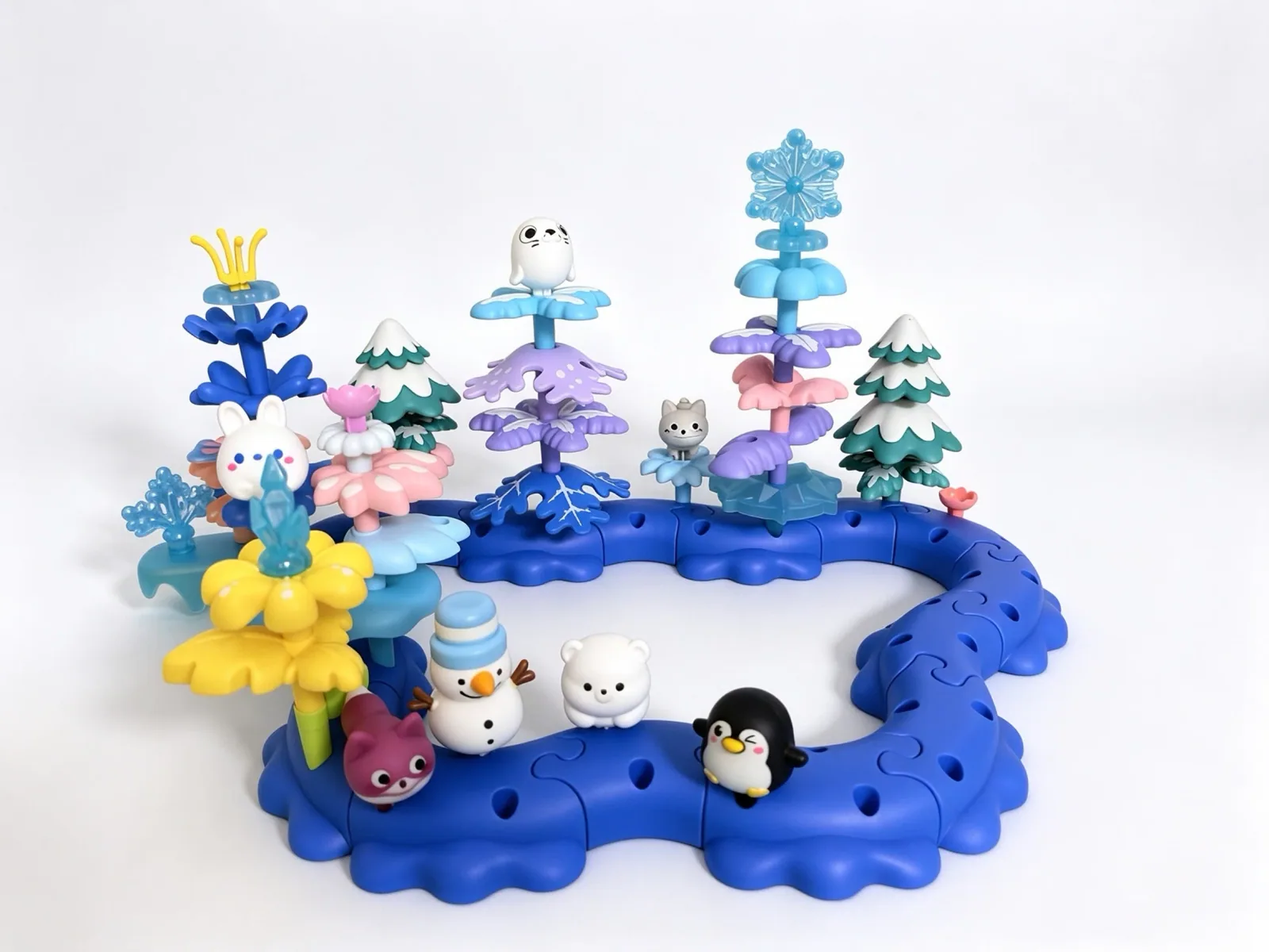
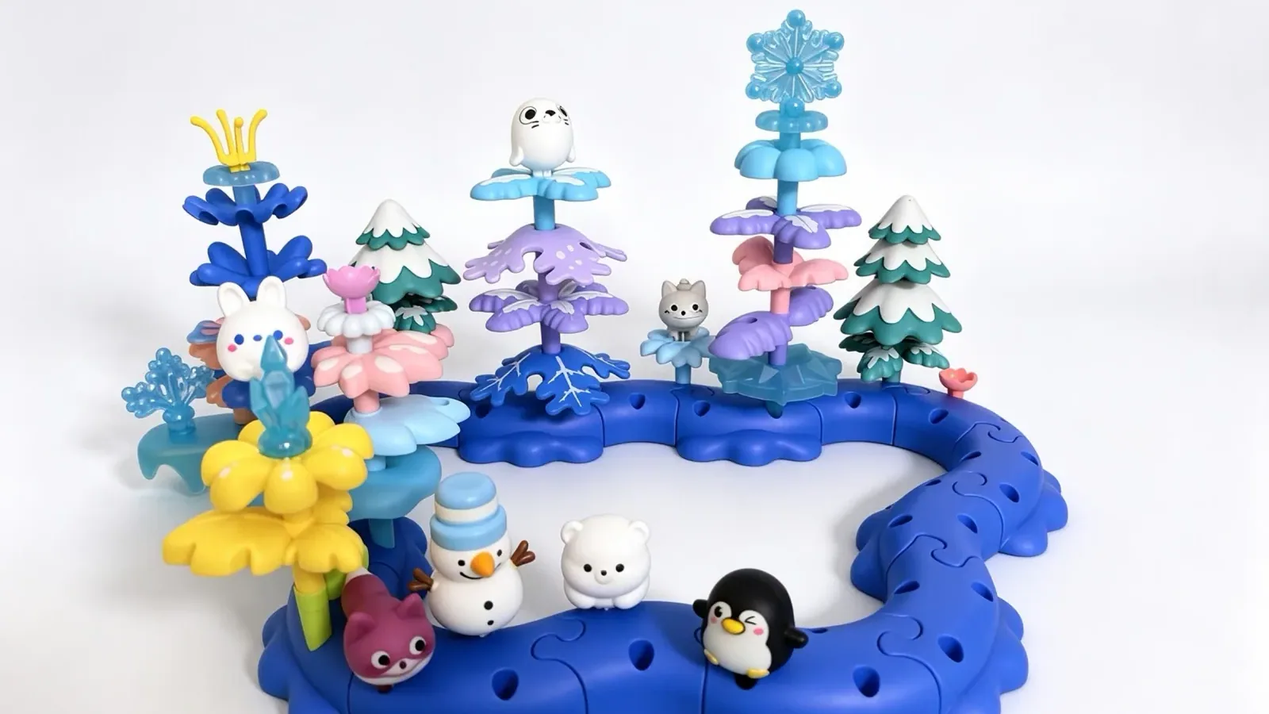
style(博客): APEC 礼物指南封面改为 16:9
- 封面重新裁切为 1600×900 WebP，文章首图与博客卡片比例更统一
- 同步更新 page.json 图片尺寸、七语言文章页与 OG 图片尺寸

diff --git a/ja/article-apec-shenzhen-gifts-2026.html b/ja/article-apec-shenzhen-gifts-2026.html
@@ -19,7 +19,7 @@
     <meta name="twitter:description" content="APEC 2026 の深センで、子どもへのギフトをお探しですか。SUPUZZ の創造的な組み立て玩具、サンゴ礁・恐竜ジャングル・レインボーワッフルのセットを 2～8歳向けにご紹介します。">
     <meta property="og:image" content="https://supuzz.com/product-images/journal/article-apec-shenzhen-gifts-2026-cover.webp">
     <meta property="og:image:width" content="1600">
-    <meta property="og:image:height" content="1200">
+    <meta property="og:image:height" content="900">
     <meta property="og:image:alt" content="雪をかぶった木、雪だるま、ペンギン、シロクマ、アザラシが並ぶ SUPUZZ 組み立て玩具の冬景色">
     <meta name="twitter:image" content="https://supuzz.com/product-images/journal/article-apec-shenzhen-gifts-2026-cover.webp">
     <meta name="twitter:image:alt" content="雪をかぶった木、雪だるま、ペンギン、シロクマ、アザラシが並ぶ SUPUZZ 組み立て玩具の冬景色">
@@ -30,7 +30,7 @@
     <link rel="stylesheet" href="../css/style.css">
     <link rel="stylesheet" href="/css/article-guide.css">
     <link rel="icon" href="../images/favicon.ico">
-    <script type="application/ld+json">{"@context":"https://schema.org","@type":"BlogPosting","headline":"APEC Shenzhen 2026 子どもへのギフト提案","description":"APEC 2026 の深センで、子どもへのギフトをお探しですか。SUPUZZ の創造的な組み立て玩具、サンゴ礁・恐竜ジャングル・レインボーワッフルのセットを 2～8歳向けにご紹介します。","inLanguage":"ja-JP","datePublished":"2026-11-18T10:00:00+08:00","dateModified":"2026-11-18T10:00:00+08:00","author":{"@type":"Organization","name":"SUPUZZ 編集部","url":"https://supuzz.com/ja/about.html"},"publisher":{"@type":"Organization","name":"SUPUZZ","url":"https://supuzz.com/"},"mainEntityOfPage":{"@type":"WebPage","@id":"https://supuzz.com/ja/article-apec-shenzhen-gifts-2026.html"},"image":{"@type":"ImageObject","url":"https://supuzz.com/product-images/journal/article-apec-shenzhen-gifts-2026-cover.webp","width":1600,"height":1200}}</script>
+    <script type="application/ld+json">{"@context":"https://schema.org","@type":"BlogPosting","headline":"APEC Shenzhen 2026 子どもへのギフト提案","description":"APEC 2026 の深センで、子どもへのギフトをお探しですか。SUPUZZ の創造的な組み立て玩具、サンゴ礁・恐竜ジャングル・レインボーワッフルのセットを 2～8歳向けにご紹介します。","inLanguage":"ja-JP","datePublished":"2026-11-18T10:00:00+08:00","dateModified":"2026-11-18T10:00:00+08:00","author":{"@type":"Organization","name":"SUPUZZ 編集部","url":"https://supuzz.com/ja/about.html"},"publisher":{"@type":"Organization","name":"SUPUZZ","url":"https://supuzz.com/"},"mainEntityOfPage":{"@type":"WebPage","@id":"https://supuzz.com/ja/article-apec-shenzhen-gifts-2026.html"},"image":{"@type":"ImageObject","url":"https://supuzz.com/product-images/journal/article-apec-shenzhen-gifts-2026-cover.webp","width":1600,"height":900}}</script>
     <script type="application/ld+json">{"@context":"https://schema.org","@type":"BreadcrumbList","itemListElement":[{"@type":"ListItem","position":1,"name":"ホーム","item":"https://supuzz.com/ja/index.html"},{"@type":"ListItem","position":2,"name":"ブログ","item":"https://supuzz.com/ja/blog.html"},{"@type":"ListItem","position":3,"name":"APEC Shenzhen 2026 子どもへのギフト提案","item":"https://supuzz.com/ja/article-apec-shenzhen-gifts-2026.html"}]}</script>
 
 
@@ -57,7 +57,7 @@
             <h1>APEC Shenzhen 2026 子どもへのギフト提案</h1>
             <p class="meta">SUPUZZ 編集部 · 公開日：<time datetime="2026-11-18">2026年11月18日</time></p>
         </div>
-        <figure><img class="featured-img" src="/product-images/journal/article-apec-shenzhen-gifts-2026-cover.webp" width="1600" height="1200" alt="雪をかぶった木、雪だるま、ペンギン、シロクマ、アザラシが並ぶ SUPUZZ 組み立て玩具の冬景色" loading="eager" decoding="async" fetchpriority="high"><figcaption>写真は、雪の木々、雪だるま、ペンギン、シロクマ、アザラシを組み立て玩具で表現した冬のシーン。SUPUZZ は、答えを決めずに手を動かして遊べる玩具をつくっています。</figcaption></figure>
+        <figure><img class="featured-img" src="/product-images/journal/article-apec-shenzhen-gifts-2026-cover.webp" width="1600" height="900" alt="雪をかぶった木、雪だるま、ペンギン、シロクマ、アザラシが並ぶ SUPUZZ 組み立て玩具の冬景色" loading="eager" decoding="async" fetchpriority="high"><figcaption>写真は、雪の木々、雪だるま、ペンギン、シロクマ、アザラシを組み立て玩具で表現した冬のシーン。SUPUZZ は、答えを決めずに手を動かして遊べる玩具をつくっています。</figcaption></figure>
         <div class="content">
             <p class="intro">深センで、子どもの創造性をはぐくむギフトをお探しですか。SUPUZZ は深センを拠点に、カラフルな組み立て玩具と想像力豊かな遊びの体験をつくるブランドです。好奇心と創造力、そして「見つける」喜びを大切に、3～8歳の子どもが自分だけの小さな世界を探検し、組み立て、つくり出せる玩具をお届けしています。知育玩具をお探しの方も、ご家族へのギフトを探している方も、APEC 2026 で深センを訪れる際の記念のギフトをお探しの方も、創造的な組み立て玩具のコレクションをぜひご覧ください。</p>
             <section aria-labelledby="section-why">

diff --git a/fr/article-apec-shenzhen-gifts-2026.html b/fr/article-apec-shenzhen-gifts-2026.html
@@ -19,7 +19,7 @@
     <meta name="twitter:description" content="Vous cherchez des cadeaux pour enfants à Shenzhen pendant APEC Shenzhen 2026 ? Découvrez les jouets de construction créatifs SUPUZZ pour les 2–8 ans : récif corallien, jungle des dinosaures et blocs gaufrés arc-en-ciel.">
     <meta property="og:image" content="https://supuzz.com/product-images/journal/article-apec-shenzhen-gifts-2026-cover.webp">
     <meta property="og:image:width" content="1600">
-    <meta property="og:image:height" content="1200">
+    <meta property="og:image:height" content="900">
     <meta property="og:image:alt" content="Scène d’hiver en jouets de construction SUPUZZ, avec des arbres enneigés, un bonhomme de neige, un pingouin, un ours polaire et un phoque">
     <meta name="twitter:image" content="https://supuzz.com/product-images/journal/article-apec-shenzhen-gifts-2026-cover.webp">
     <meta name="twitter:image:alt" content="Scène d’hiver en jouets de construction SUPUZZ, avec des arbres enneigés, un bonhomme de neige, un pingouin, un ours polaire et un phoque">
@@ -30,7 +30,7 @@
     <link rel="stylesheet" href="../css/style.css">
     <link rel="stylesheet" href="/css/article-guide.css">
     <link rel="icon" href="../images/favicon.ico">
-    <script type="application/ld+json">{"@context":"https://schema.org","@type":"BlogPosting","headline":"Idées de cadeaux pour enfants – APEC Shenzhen 2026","description":"Vous cherchez des cadeaux pour enfants à Shenzhen pendant APEC Shenzhen 2026 ? Découvrez les jouets de construction créatifs SUPUZZ pour les 2–8 ans : récif corallien, jungle des dinosaures et blocs gaufrés arc-en-ciel.","inLanguage":"fr","datePublished":"2026-11-18T10:00:00+08:00","dateModified":"2026-11-18T10:00:00+08:00","author":{"@type":"Organization","name":"Équipe éditoriale SUPUZZ","url":"https://supuzz.com/fr/about.html"},"publisher":{"@type":"Organization","name":"SUPUZZ","url":"https://supuzz.com/"},"mainEntityOfPage":{"@type":"WebPage","@id":"https://supuzz.com/fr/article-apec-shenzhen-gifts-2026.html"},"image":{"@type":"ImageObject","url":"https://supuzz.com/product-images/journal/article-apec-shenzhen-gifts-2026-cover.webp","width":1600,"height":1200}}</script>
+    <script type="application/ld+json">{"@context":"https://schema.org","@type":"BlogPosting","headline":"Idées de cadeaux pour enfants – APEC Shenzhen 2026","description":"Vous cherchez des cadeaux pour enfants à Shenzhen pendant APEC Shenzhen 2026 ? Découvrez les jouets de construction créatifs SUPUZZ pour les 2–8 ans : récif corallien, jungle des dinosaures et blocs gaufrés arc-en-ciel.","inLanguage":"fr","datePublished":"2026-11-18T10:00:00+08:00","dateModified":"2026-11-18T10:00:00+08:00","author":{"@type":"Organization","name":"Équipe éditoriale SUPUZZ","url":"https://supuzz.com/fr/about.html"},"publisher":{"@type":"Organization","name":"SUPUZZ","url":"https://supuzz.com/"},"mainEntityOfPage":{"@type":"WebPage","@id":"https://supuzz.com/fr/article-apec-shenzhen-gifts-2026.html"},"image":{"@type":"ImageObject","url":"https://supuzz.com/product-images/journal/article-apec-shenzhen-gifts-2026-cover.webp","width":1600,"height":900}}</script>
     <script type="application/ld+json">{"@context":"https://schema.org","@type":"BreadcrumbList","itemListElement":[{"@type":"ListItem","position":1,"name":"Accueil","item":"https://supuzz.com/fr/index.html"},{"@type":"ListItem","position":2,"name":"Blog","item":"https://supuzz.com/fr/blog.html"},{"@type":"ListItem","position":3,"name":"Idées de cadeaux pour enfants – APEC Shenzhen 2026","item":"https://supuzz.com/fr/article-apec-shenzhen-gifts-2026.html"}]}</script>
 
 
@@ -57,7 +57,7 @@
             <h1>Idées de cadeaux pour enfants – APEC Shenzhen 2026</h1>
             <p class="meta">Équipe éditoriale SUPUZZ · Publié le <time datetime="2026-11-18">18 novembre 2026</time></p>
         </div>
-        <figure><img class="featured-img" src="/product-images/journal/article-apec-shenzhen-gifts-2026-cover.webp" width="1600" height="1200" alt="Scène d’hiver en jouets de construction SUPUZZ, avec des arbres enneigés, un bonhomme de neige, un pingouin, un ours polaire et un phoque" loading="eager" decoding="async" fetchpriority="high"><figcaption>Une scène d’hiver construite en blocs SUPUZZ : arbres enneigés, bonhomme de neige, pingouin, ours polaire et phoque, pour un jeu libre et créatif.</figcaption></figure>
+        <figure><img class="featured-img" src="/product-images/journal/article-apec-shenzhen-gifts-2026-cover.webp" width="1600" height="900" alt="Scène d’hiver en jouets de construction SUPUZZ, avec des arbres enneigés, un bonhomme de neige, un pingouin, un ours polaire et un phoque" loading="eager" decoding="async" fetchpriority="high"><figcaption>Une scène d’hiver construite en blocs SUPUZZ : arbres enneigés, bonhomme de neige, pingouin, ours polaire et phoque, pour un jeu libre et créatif.</figcaption></figure>
         <div class="content">
             <p class="intro">Vous cherchez des cadeaux créatifs pour enfants à Shenzhen ? Découvrez SUPUZZ, une marque basée à Shenzhen qui conçoit des jouets de construction colorés et des expériences de jeu imaginatives pour les enfants. Inspirés par la curiosité, la créativité et le plaisir de la découverte, nos jouets de construction offrent aux enfants de 3–8 ans un moyen d’explorer, de construire et de créer leurs propres petits mondes. Que vous cherchiez un jouet éducatif, un cadeau pour toute la famille ou un cadeau enfant mémorable pendant votre séjour à Shenzhen pour APEC Shenzhen 2026, parcourez notre collection de jouets de construction créatifs.</p>
             <section aria-labelledby="section-why">

diff --git a/pt/article-apec-shenzhen-gifts-2026.html b/pt/article-apec-shenzhen-gifts-2026.html
@@ -19,7 +19,7 @@
     <meta name="twitter:description" content="Procurando presentes infantis em Shenzhen durante a APEC 2026? Conheça os brinquedos de montar criativos da SUPUZZ para 2–8 anos: recife de coral, selva com dinossauros e blocos waffle arco-íris.">
     <meta property="og:image" content="https://supuzz.com/product-images/journal/article-apec-shenzhen-gifts-2026-cover.webp">
     <meta property="og:image:width" content="1600">
-    <meta property="og:image:height" content="1200">
+    <meta property="og:image:height" content="900">
     <meta property="og:image:alt" content="Cena de inverno montada com brinquedos SUPUZZ, com árvores cobertas de neve, um boneco de neve, um pinguim, um urso-polar e uma foca">
     <meta name="twitter:image" content="https://supuzz.com/product-images/journal/article-apec-shenzhen-gifts-2026-cover.webp">
     <meta name="twitter:image:alt" content="Cena de inverno montada com brinquedos SUPUZZ, com árvores cobertas de neve, um boneco de neve, um pinguim, um urso-polar e uma foca">
@@ -30,7 +30,7 @@
     <link rel="stylesheet" href="../css/style.css">
     <link rel="stylesheet" href="/css/article-guide.css">
     <link rel="icon" href="../images/favicon.ico">
-    <script type="application/ld+json">{"@context":"https://schema.org","@type":"BlogPosting","headline":"Ideias de presentes infantis para a APEC Shenzhen 2026","description":"Procurando presentes infantis em Shenzhen durante a APEC 2026? Conheça os brinquedos de montar criativos da SUPUZZ para 2–8 anos: recife de coral, selva com dinossauros e blocos waffle arco-íris.","inLanguage":"pt","datePublished":"2026-11-18T10:00:00+08:00","dateModified":"2026-11-18T10:00:00+08:00","author":{"@type":"Organization","name":"Equipe editorial da SUPUZZ","url":"https://supuzz.com/pt/about.html"},"publisher":{"@type":"Organization","name":"SUPUZZ","url":"https://supuzz.com/"},"mainEntityOfPage":{"@type":"WebPage","@id":"https://supuzz.com/pt/article-apec-shenzhen-gifts-2026.html"},"image":{"@type":"ImageObject","url":"https://supuzz.com/product-images/journal/article-apec-shenzhen-gifts-2026-cover.webp","width":1600,"height":1200}}</script>
+    <script type="application/ld+json">{"@context":"https://schema.org","@type":"BlogPosting","headline":"Ideias de presentes infantis para a APEC Shenzhen 2026","description":"Procurando presentes infantis em Shenzhen durante a APEC 2026? Conheça os brinquedos de montar criativos da SUPUZZ para 2–8 anos: recife de coral, selva com dinossauros e blocos waffle arco-íris.","inLanguage":"pt","datePublished":"2026-11-18T10:00:00+08:00","dateModified":"2026-11-18T10:00:00+08:00","author":{"@type":"Organization","name":"Equipe editorial da SUPUZZ","url":"https://supuzz.com/pt/about.html"},"publisher":{"@type":"Organization","name":"SUPUZZ","url":"https://supuzz.com/"},"mainEntityOfPage":{"@type":"WebPage","@id":"https://supuzz.com/pt/article-apec-shenzhen-gifts-2026.html"},"image":{"@type":"ImageObject","url":"https://supuzz.com/product-images/journal/article-apec-shenzhen-gifts-2026-cover.webp","width":1600,"height":900}}</script>
     <script type="application/ld+json">{"@context":"https://schema.org","@type":"BreadcrumbList","itemListElement":[{"@type":"ListItem","position":1,"name":"Início","item":"https://supuzz.com/pt/index.html"},{"@type":"ListItem","position":2,"name":"Blog","item":"https://supuzz.com/pt/blog.html"},{"@type":"ListItem","position":3,"name":"Ideias de presentes infantis para a APEC Shenzhen 2026","item":"https://supuzz.com/pt/article-apec-shenzhen-gifts-2026.html"}]}</script>
 
 
@@ -57,7 +57,7 @@
             <h1>Ideias de presentes infantis para a APEC Shenzhen 2026</h1>
             <p class="meta">Equipe editorial da SUPUZZ · Publicado em <time datetime="2026-11-18">18 de novembro de 2026</time></p>
         </div>
-        <figure><img class="featured-img" src="/product-images/journal/article-apec-shenzhen-gifts-2026-cover.webp" width="1600" height="1200" alt="Cena de inverno montada com brinquedos SUPUZZ, com árvores cobertas de neve, um boneco de neve, um pinguim, um urso-polar e uma foca" loading="eager" decoding="async" fetchpriority="high"><figcaption>Uma cena de inverno montada com blocos SUPUZZ, com árvores cobertas de neve, boneco de neve, pinguim, urso-polar e foca em volta de uma construção colorida.</figcaption></figure>
+        <figure><img class="featured-img" src="/product-images/journal/article-apec-shenzhen-gifts-2026-cover.webp" width="1600" height="900" alt="Cena de inverno montada com brinquedos SUPUZZ, com árvores cobertas de neve, um boneco de neve, um pinguim, um urso-polar e uma foca" loading="eager" decoding="async" fetchpriority="high"><figcaption>Uma cena de inverno montada com blocos SUPUZZ, com árvores cobertas de neve, boneco de neve, pinguim, urso-polar e foca em volta de uma construção colorida.</figcaption></figure>
         <div class="content">
             <p class="intro">Procurando presentes infantis criativos em Shenzhen? Conheça a SUPUZZ, marca de Shenzhen que cria brinquedos de montar coloridos e experiências de brincadeira cheias de imaginação para crianças. Inspirados pela curiosidade, pela criatividade e pela alegria de descobrir, nossos brinquedos de montar dão às crianças de 3–8 anos um jeito de explorar, construir e criar seus próprios mundinhos. Se você procura um brinquedo educativo, um presente para a família ou uma lembrança marcante para crianças durante a passagem por Shenzhen na APEC 2026, explore nossa coleção de brinquedos de montar criativos.</p>
             <section aria-labelledby="section-why">

diff --git a/es/article-apec-shenzhen-gifts-2026.html b/es/article-apec-shenzhen-gifts-2026.html
@@ -19,7 +19,7 @@
     <meta name="twitter:description" content="¿Buscas regalos para niños en Shenzhen durante APEC 2026? Descubre SUPUZZ, juguetes de construcción creativa para niños de 2–8 años: arrecife de coral, jungla de dinosaurios y bloques gofre arcoíris.">
     <meta property="og:image" content="https://supuzz.com/product-images/journal/article-apec-shenzhen-gifts-2026-cover.webp">
     <meta property="og:image:width" content="1600">
-    <meta property="og:image:height" content="1200">
+    <meta property="og:image:height" content="900">
     <meta property="og:image:alt" content="Escena invernal de juguete de construcción SUPUZZ con árboles nevados, un muñeco de nieve, un pingüino, un oso polar y una foca">
     <meta name="twitter:image" content="https://supuzz.com/product-images/journal/article-apec-shenzhen-gifts-2026-cover.webp">
     <meta name="twitter:image:alt" content="Escena invernal de juguete de construcción SUPUZZ con árboles nevados, un muñeco de nieve, un pingüino, un oso polar y una foca">
@@ -30,7 +30,7 @@
     <link rel="stylesheet" href="../css/style.css">
     <link rel="stylesheet" href="/css/article-guide.css">
     <link rel="icon" href="../images/favicon.ico">
-    <script type="application/ld+json">{"@context":"https://schema.org","@type":"BlogPosting","headline":"Ideas de regalos para niños para APEC Shenzhen 2026","description":"¿Buscas regalos para niños en Shenzhen durante APEC 2026? Descubre SUPUZZ, juguetes de construcción creativa para niños de 2–8 años: arrecife de coral, jungla de dinosaurios y bloques gofre arcoíris.","inLanguage":"es-ES","datePublished":"2026-11-18T10:00:00+08:00","dateModified":"2026-11-18T10:00:00+08:00","author":{"@type":"Organization","name":"Equipo editorial de SUPUZZ","url":"https://supuzz.com/es/about.html"},"publisher":{"@type":"Organization","name":"SUPUZZ","url":"https://supuzz.com/"},"mainEntityOfPage":{"@type":"WebPage","@id":"https://supuzz.com/es/article-apec-shenzhen-gifts-2026.html"},"image":{"@type":"ImageObject","url":"https://supuzz.com/product-images/journal/article-apec-shenzhen-gifts-2026-cover.webp","width":1600,"height":1200}}</script>
+    <script type="application/ld+json">{"@context":"https://schema.org","@type":"BlogPosting","headline":"Ideas de regalos para niños para APEC Shenzhen 2026","description":"¿Buscas regalos para niños en Shenzhen durante APEC 2026? Descubre SUPUZZ, juguetes de construcción creativa para niños de 2–8 años: arrecife de coral, jungla de dinosaurios y bloques gofre arcoíris.","inLanguage":"es-ES","datePublished":"2026-11-18T10:00:00+08:00","dateModified":"2026-11-18T10:00:00+08:00","author":{"@type":"Organization","name":"Equipo editorial de SUPUZZ","url":"https://supuzz.com/es/about.html"},"publisher":{"@type":"Organization","name":"SUPUZZ","url":"https://supuzz.com/"},"mainEntityOfPage":{"@type":"WebPage","@id":"https://supuzz.com/es/article-apec-shenzhen-gifts-2026.html"},"image":{"@type":"ImageObject","url":"https://supuzz.com/product-images/journal/article-apec-shenzhen-gifts-2026-cover.webp","width":1600,"height":900}}</script>
     <script type="application/ld+json">{"@context":"https://schema.org","@type":"BreadcrumbList","itemListElement":[{"@type":"ListItem","position":1,"name":"Inicio","item":"https://supuzz.com/es/index.html"},{"@type":"ListItem","position":2,"name":"Blog","item":"https://supuzz.com/es/blog.html"},{"@type":"ListItem","position":3,"name":"Ideas de regalos para niños para APEC Shenzhen 2026","item":"https://supuzz.com/es/article-apec-shenzhen-gifts-2026.html"}]}</script>
 
 
@@ -57,7 +57,7 @@
             <h1>Ideas de regalos para niños para APEC Shenzhen 2026</h1>
             <p class="meta">Equipo editorial de SUPUZZ · Publicado el <time datetime="2026-11-18">18 de noviembre de 2026</time></p>
         </div>
-        <figure><img class="featured-img" src="/product-images/journal/article-apec-shenzhen-gifts-2026-cover.webp" width="1600" height="1200" alt="Escena invernal de juguete de construcción SUPUZZ con árboles nevados, un muñeco de nieve, un pingüino, un oso polar y una foca" loading="eager" decoding="async" fetchpriority="high"><figcaption>Una escena invernal de juguetes de construcción SUPUZZ: árboles cubiertos de nieve, un muñeco de nieve, un pingüino, un oso polar y una foca.</figcaption></figure>
+        <figure><img class="featured-img" src="/product-images/journal/article-apec-shenzhen-gifts-2026-cover.webp" width="1600" height="900" alt="Escena invernal de juguete de construcción SUPUZZ con árboles nevados, un muñeco de nieve, un pingüino, un oso polar y una foca" loading="eager" decoding="async" fetchpriority="high"><figcaption>Una escena invernal de juguetes de construcción SUPUZZ: árboles cubiertos de nieve, un muñeco de nieve, un pingüino, un oso polar y una foca.</figcaption></figure>
         <div class="content">
             <p class="intro">¿Buscas regalos creativos para niños en Shenzhen? Descubre SUPUZZ, una marca de Shenzhen que crea juguetes de construcción coloridos y experiencias de juego imaginativas para niños. Inspirados por la curiosidad, la creatividad y la alegría de descubrir, nuestros juguetes de construcción ofrecen a los niños de 3–8 años una forma de explorar, construir y crear sus propios mundos. Si buscas un juguete educativo, un regalo para la familia o un regalo para niños que se recuerde, mientras visitas Shenzhen por APEC 2026, explora nuestra colección de juguetes de construcción creativos.</p>
             <section aria-labelledby="section-why">

diff --git a/de/article-apec-shenzhen-gifts-2026.html b/de/article-apec-shenzhen-gifts-2026.html
@@ -19,7 +19,7 @@
     <meta name="twitter:description" content="Sie suchen Geschenke für Kinder in Shenzhen während der APEC 2026? Entdecken Sie die kreativen Bausteine von SUPUZZ für 2–8 Jahre: Korallenriff, Dschungel-Dinosaurier und Regenbogen-Waffelbausteine.">
     <meta property="og:image" content="https://supuzz.com/product-images/journal/article-apec-shenzhen-gifts-2026-cover.webp">
     <meta property="og:image:width" content="1600">
-    <meta property="og:image:height" content="1200">
+    <meta property="og:image:height" content="900">
     <meta property="og:image:alt" content="SUPUZZ Baustein-Winterszene mit schneebedeckten Bäumen, einem Schneemann, einem Pinguin, einem Eisbären und einem Seehund">
     <meta name="twitter:image" content="https://supuzz.com/product-images/journal/article-apec-shenzhen-gifts-2026-cover.webp">
     <meta name="twitter:image:alt" content="SUPUZZ Baustein-Winterszene mit schneebedeckten Bäumen, einem Schneemann, einem Pinguin, einem Eisbären und einem Seehund">
@@ -30,7 +30,7 @@
     <link rel="stylesheet" href="../css/style.css">
     <link rel="stylesheet" href="/css/article-guide.css">
     <link rel="icon" href="../images/favicon.ico">
-    <script type="application/ld+json">{"@context":"https://schema.org","@type":"BlogPosting","headline":"Geschenkideen für Kinder zur APEC Shenzhen 2026","description":"Sie suchen Geschenke für Kinder in Shenzhen während der APEC 2026? Entdecken Sie die kreativen Bausteine von SUPUZZ für 2–8 Jahre: Korallenriff, Dschungel-Dinosaurier und Regenbogen-Waffelbausteine.","inLanguage":"de","datePublished":"2026-11-18T10:00:00+08:00","dateModified":"2026-11-18T10:00:00+08:00","author":{"@type":"Organization","name":"SUPUZZ-Redaktion","url":"https://supuzz.com/de/about.html"},"publisher":{"@type":"Organization","name":"SUPUZZ","url":"https://supuzz.com/"},"mainEntityOfPage":{"@type":"WebPage","@id":"https://supuzz.com/de/article-apec-shenzhen-gifts-2026.html"},"image":{"@type":"ImageObject","url":"https://supuzz.com/product-images/journal/article-apec-shenzhen-gifts-2026-cover.webp","width":1600,"height":1200}}</script>
+    <script type="application/ld+json">{"@context":"https://schema.org","@type":"BlogPosting","headline":"Geschenkideen für Kinder zur APEC Shenzhen 2026","description":"Sie suchen Geschenke für Kinder in Shenzhen während der APEC 2026? Entdecken Sie die kreativen Bausteine von SUPUZZ für 2–8 Jahre: Korallenriff, Dschungel-Dinosaurier und Regenbogen-Waffelbausteine.","inLanguage":"de","datePublished":"2026-11-18T10:00:00+08:00","dateModified":"2026-11-18T10:00:00+08:00","author":{"@type":"Organization","name":"SUPUZZ-Redaktion","url":"https://supuzz.com/de/about.html"},"publisher":{"@type":"Organization","name":"SUPUZZ","url":"https://supuzz.com/"},"mainEntityOfPage":{"@type":"WebPage","@id":"https://supuzz.com/de/article-apec-shenzhen-gifts-2026.html"},"image":{"@type":"ImageObject","url":"https://supuzz.com/product-images/journal/article-apec-shenzhen-gifts-2026-cover.webp","width":1600,"height":900}}</script>
     <script type="application/ld+json">{"@context":"https://schema.org","@type":"BreadcrumbList","itemListElement":[{"@type":"ListItem","position":1,"name":"Startseite","item":"https://supuzz.com/de/index.html"},{"@type":"ListItem","position":2,"name":"Blog","item":"https://supuzz.com/de/blog.html"},{"@type":"ListItem","position":3,"name":"Geschenkideen für Kinder zur APEC Shenzhen 2026","item":"https://supuzz.com/de/article-apec-shenzhen-gifts-2026.html"}]}</script>
 
 
@@ -57,7 +57,7 @@
             <h1>Geschenkideen für Kinder zur APEC Shenzhen 2026</h1>
             <p class="meta">SUPUZZ-Redaktion · Veröffentlicht am <time datetime="2026-11-18">18. November 2026</time></p>
         </div>
-        <figure><img class="featured-img" src="/product-images/journal/article-apec-shenzhen-gifts-2026-cover.webp" width="1600" height="1200" alt="SUPUZZ Baustein-Winterszene mit schneebedeckten Bäumen, einem Schneemann, einem Pinguin, einem Eisbären und einem Seehund" loading="eager" decoding="async" fetchpriority="high"><figcaption>Wintrige Bausteinszene mit Schneemann, Pinguin, Eisbär und schneebedeckten Bäumen – gebaut für freies Spiel.</figcaption></figure>
+        <figure><img class="featured-img" src="/product-images/journal/article-apec-shenzhen-gifts-2026-cover.webp" width="1600" height="900" alt="SUPUZZ Baustein-Winterszene mit schneebedeckten Bäumen, einem Schneemann, einem Pinguin, einem Eisbären und einem Seehund" loading="eager" decoding="async" fetchpriority="high"><figcaption>Wintrige Bausteinszene mit Schneemann, Pinguin, Eisbär und schneebedeckten Bäumen – gebaut für freies Spiel.</figcaption></figure>
         <div class="content">
             <p class="intro">Sie suchen kreative Geschenke für Kinder in Shenzhen? Lernen Sie SUPUZZ kennen – eine Marke aus Shenzhen, die bunte Bausteine und fantasievolle Spielerlebnisse für Kinder entwickelt. Inspiriert von Neugier, Kreativität und der Freude am Entdecken geben unsere Bausteine Kindern von 3–8 Jahren Raum, eigene kleine Welten zu erkunden, zu bauen und zu gestalten. Ob Sie ein Lernspielzeug, ein Familiengeschenk oder ein besonderes Kindergeschenk für Ihren Besuch in Shenzhen zur APEC 2026 suchen – entdecken Sie unsere Kollektion kreativer Bausteine.</p>
             <section aria-labelledby="section-why">

diff --git a/zh-Hant/article-apec-shenzhen-gifts-2026.html b/zh-Hant/article-apec-shenzhen-gifts-2026.html
@@ -19,7 +19,7 @@
     <meta name="twitter:description" content="2026 年 APEC 期間走訪深圳，想為孩子挑一份禮物？認識 SUPUZZ 創意積木，適合 2–8 歲：珊瑚礁、恐龍叢林與彩虹鬆餅積木。">
     <meta property="og:image" content="https://supuzz.com/product-images/journal/article-apec-shenzhen-gifts-2026-cover.webp">
     <meta property="og:image:width" content="1600">
-    <meta property="og:image:height" content="1200">
+    <meta property="og:image:height" content="900">
     <meta property="og:image:alt" content="SUPUZZ 積木冬日雪景，有覆雪的樹木、雪人、企鵝、北極熊與海豹">
     <meta name="twitter:image" content="https://supuzz.com/product-images/journal/article-apec-shenzhen-gifts-2026-cover.webp">
     <meta name="twitter:image:alt" content="SUPUZZ 積木冬日雪景，有覆雪的樹木、雪人、企鵝、北極熊與海豹">
@@ -30,7 +30,7 @@
     <link rel="stylesheet" href="../css/style.css">
     <link rel="stylesheet" href="/css/article-guide.css">
     <link rel="icon" href="../images/favicon.ico">
-    <script type="application/ld+json">{"@context":"https://schema.org","@type":"BlogPosting","headline":"APEC Shenzhen 2026 兒童禮物推薦","description":"2026 年 APEC 期間走訪深圳，想為孩子挑一份禮物？認識 SUPUZZ 創意積木，適合 2–8 歲：珊瑚礁、恐龍叢林與彩虹鬆餅積木。","inLanguage":"zh-Hant","datePublished":"2026-11-18T10:00:00+08:00","dateModified":"2026-11-18T10:00:00+08:00","author":{"@type":"Organization","name":"SUPUZZ 編輯團隊","url":"https://supuzz.com/zh-Hant/about.html"},"publisher":{"@type":"Organization","name":"SUPUZZ","url":"https://supuzz.com/"},"mainEntityOfPage":{"@type":"WebPage","@id":"https://supuzz.com/zh-Hant/article-apec-shenzhen-gifts-2026.html"},"image":{"@type":"ImageObject","url":"https://supuzz.com/product-images/journal/article-apec-shenzhen-gifts-2026-cover.webp","width":1600,"height":1200}}</script>
+    <script type="application/ld+json">{"@context":"https://schema.org","@type":"BlogPosting","headline":"APEC Shenzhen 2026 兒童禮物推薦","description":"2026 年 APEC 期間走訪深圳，想為孩子挑一份禮物？認識 SUPUZZ 創意積木，適合 2–8 歲：珊瑚礁、恐龍叢林與彩虹鬆餅積木。","inLanguage":"zh-Hant","datePublished":"2026-11-18T10:00:00+08:00","dateModified":"2026-11-18T10:00:00+08:00","author":{"@type":"Organization","name":"SUPUZZ 編輯團隊","url":"https://supuzz.com/zh-Hant/about.html"},"publisher":{"@type":"Organization","name":"SUPUZZ","url":"https://supuzz.com/"},"mainEntityOfPage":{"@type":"WebPage","@id":"https://supuzz.com/zh-Hant/article-apec-shenzhen-gifts-2026.html"},"image":{"@type":"ImageObject","url":"https://supuzz.com/product-images/journal/article-apec-shenzhen-gifts-2026-cover.webp","width":1600,"height":900}}</script>
     <script type="application/ld+json">{"@context":"https://schema.org","@type":"BreadcrumbList","itemListElement":[{"@type":"ListItem","position":1,"name":"首頁","item":"https://supuzz.com/zh-Hant/index.html"},{"@type":"ListItem","position":2,"name":"部落格","item":"https://supuzz.com/zh-Hant/blog.html"},{"@type":"ListItem","position":3,"name":"APEC Shenzhen 2026 兒童禮物推薦","item":"https://supuzz.com/zh-Hant/article-apec-shenzhen-gifts-2026.html"}]}</script>
 
 
@@ -57,7 +57,7 @@
             <h1>APEC Shenzhen 2026 兒童禮物推薦</h1>
             <p class="meta">SUPUZZ 編輯團隊 · 發布日期：<time datetime="2026-11-18">2026年11月18日</time></p>
         </div>
-        <figure><img class="featured-img" src="/product-images/journal/article-apec-shenzhen-gifts-2026-cover.webp" width="1600" height="1200" alt="SUPUZZ 積木冬日雪景，有覆雪的樹木、雪人、企鵝、北極熊與海豹" loading="eager" decoding="async" fetchpriority="high"><figcaption>冬日雪景積木場景：覆雪的樹木、雪人、企鵝、北極熊與海豹，示範積木的開放式玩法。</figcaption></figure>
+        <figure><img class="featured-img" src="/product-images/journal/article-apec-shenzhen-gifts-2026-cover.webp" width="1600" height="900" alt="SUPUZZ 積木冬日雪景，有覆雪的樹木、雪人、企鵝、北極熊與海豹" loading="eager" decoding="async" fetchpriority="high"><figcaption>冬日雪景積木場景：覆雪的樹木、雪人、企鵝、北極熊與海豹，示範積木的開放式玩法。</figcaption></figure>
         <div class="content">
             <p class="intro">正在深圳尋找充滿創意的兒童禮物？認識 SUPUZZ——來自深圳的品牌，以色彩豐富的積木與充滿想像力的遊戲體驗，陪伴孩子成長。以好奇心、創造力與發現的樂趣為靈感，我們的積木讓 3–8 歲的孩子有機會探索、動手搭建，打造屬於自己的小世界。無論你想要的是益智玩具、全家共享的禮物，還是走訪深圳參加 APEC 2026 期間值得帶回的一份兒童禮物，都歡迎看看我們的創意積木系列。</p>
             <section aria-labelledby="section-why">

diff --git a/en/article-apec-shenzhen-gifts-2026.html b/en/article-apec-shenzhen-gifts-2026.html
@@ -19,7 +19,7 @@
     <meta name="twitter:description" content="Looking for children&#39;s gifts in Shenzhen during APEC 2026? Meet SUPUZZ creative building toys for ages 2–8: coral reef, dinosaur jungle and rainbow waffle sets.">
     <meta property="og:image" content="https://supuzz.com/product-images/journal/article-apec-shenzhen-gifts-2026-cover.webp">
     <meta property="og:image:width" content="1600">
-    <meta property="og:image:height" content="1200">
+    <meta property="og:image:height" content="900">
     <meta property="og:image:alt" content="SUPUZZ building toy winter scene with snow-covered trees, a snowman, a penguin, a polar bear and a seal">
     <meta name="twitter:image" content="https://supuzz.com/product-images/journal/article-apec-shenzhen-gifts-2026-cover.webp">
     <meta name="twitter:image:alt" content="SUPUZZ building toy winter scene with snow-covered trees, a snowman, a penguin, a polar bear and a seal">
@@ -30,7 +30,7 @@
     <link rel="stylesheet" href="../css/style.css">
     <link rel="stylesheet" href="/css/article-guide.css">
     <link rel="icon" href="../images/favicon.ico">
-    <script type="application/ld+json">{"@context":"https://schema.org","@type":"BlogPosting","headline":"Children's Gift Ideas for APEC Shenzhen 2026","description":"Looking for children's gifts in Shenzhen during APEC 2026? Meet SUPUZZ creative building toys for ages 2–8: coral reef, dinosaur jungle and rainbow waffle sets.","inLanguage":"en-US","datePublished":"2026-11-18T10:00:00+08:00","dateModified":"2026-11-18T10:00:00+08:00","author":{"@type":"Organization","name":"SUPUZZ Editorial Team","url":"https://supuzz.com/en/about.html"},"publisher":{"@type":"Organization","name":"SUPUZZ","url":"https://supuzz.com/"},"mainEntityOfPage":{"@type":"WebPage","@id":"https://supuzz.com/en/article-apec-shenzhen-gifts-2026.html"},"image":{"@type":"ImageObject","url":"https://supuzz.com/product-images/journal/article-apec-shenzhen-gifts-2026-cover.webp","width":1600,"height":1200}}</script>
+    <script type="application/ld+json">{"@context":"https://schema.org","@type":"BlogPosting","headline":"Children's Gift Ideas for APEC Shenzhen 2026","description":"Looking for children's gifts in Shenzhen during APEC 2026? Meet SUPUZZ creative building toys for ages 2–8: coral reef, dinosaur jungle and rainbow waffle sets.","inLanguage":"en-US","datePublished":"2026-11-18T10:00:00+08:00","dateModified":"2026-11-18T10:00:00+08:00","author":{"@type":"Organization","name":"SUPUZZ Editorial Team","url":"https://supuzz.com/en/about.html"},"publisher":{"@type":"Organization","name":"SUPUZZ","url":"https://supuzz.com/"},"mainEntityOfPage":{"@type":"WebPage","@id":"https://supuzz.com/en/article-apec-shenzhen-gifts-2026.html"},"image":{"@type":"ImageObject","url":"https://supuzz.com/product-images/journal/article-apec-shenzhen-gifts-2026-cover.webp","width":1600,"height":900}}</script>
     <script type="application/ld+json">{"@context":"https://schema.org","@type":"BreadcrumbList","itemListElement":[{"@type":"ListItem","position":1,"name":"Home","item":"https://supuzz.com/en/index.html"},{"@type":"ListItem","position":2,"name":"Blog","item":"https://supuzz.com/en/blog.html"},{"@type":"ListItem","position":3,"name":"Children's Gift Ideas for APEC Shenzhen 2026","item":"https://supuzz.com/en/article-apec-shenzhen-gifts-2026.html"}]}</script>
 
 
@@ -57,7 +57,7 @@
             <h1>Children&#39;s Gift Ideas for APEC Shenzhen 2026</h1>
             <p class="meta">SUPUZZ Editorial Team · Published <time datetime="2026-11-18">November 18, 2026</time></p>
         </div>
-        <figure><img class="featured-img" src="/product-images/journal/article-apec-shenzhen-gifts-2026-cover.webp" width="1600" height="1200" alt="SUPUZZ building toy winter scene with snow-covered trees, a snowman, a penguin, a polar bear and a seal" loading="eager" decoding="async" fetchpriority="high"><figcaption>SUPUZZ building toys are designed for open-ended, hands-on play.</figcaption></figure>
+        <figure><img class="featured-img" src="/product-images/journal/article-apec-shenzhen-gifts-2026-cover.webp" width="1600" height="900" alt="SUPUZZ building toy winter scene with snow-covered trees, a snowman, a penguin, a polar bear and a seal" loading="eager" decoding="async" fetchpriority="high"><figcaption>SUPUZZ building toys are designed for open-ended, hands-on play.</figcaption></figure>
         <div class="content">
             <p class="intro">Looking for creative children&#39;s gifts in Shenzhen? Discover SUPUZZ, a Shenzhen-based brand creating colorful building toys and imaginative play experiences for children. Inspired by curiosity, creativity and the joy of discovery, our building toys give children aged 3–8 a way to explore, build and create their own little worlds. Whether you are looking for an educational toy, a family gift, or a memorable children&#39;s gift while visiting Shenzhen for APEC 2026, explore our collection of creative building toys.</p>
             <section aria-labelledby="section-why">

diff --git a/fr/blog.html b/fr/blog.html
@@ -68,7 +68,7 @@
             </div>
             <div class="blog-grid" id="blogGridContainer">
 <a class="blog-card" href="article-apec-shenzhen-gifts-2026.html" data-category="building-blocks" aria-label="Idées de cadeaux pour enfants – APEC Shenzhen 2026">
-    <div class="blog-card-image"><img src="/product-images/journal/article-apec-shenzhen-gifts-2026-cover.webp" alt="Scène d’hiver en jouets de construction SUPUZZ, avec des arbres enneigés, un bonhomme de neige, un pingouin, un ours polaire et un phoque" width="1600" height="1200" loading="lazy" decoding="async"></div>
+    <div class="blog-card-image"><img src="/product-images/journal/article-apec-shenzhen-gifts-2026-cover.webp" alt="Scène d’hiver en jouets de construction SUPUZZ, avec des arbres enneigés, un bonhomme de neige, un pingouin, un ours polaire et un phoque" width="1600" height="900" loading="lazy" decoding="async"></div>
     <div class="blog-card-body">
         <div class="blog-card-meta">
             <p class="blog-published"><span class="blog-card-calendar" aria-hidden="true"></span><span class="blog-card-sr-only">Publié le </span><time datetime="2026-11-18">18 nov. 2026</time></p>

diff --git a/pt/blog.html b/pt/blog.html
@@ -68,7 +68,7 @@
             </div>
             <div class="blog-grid" id="blogGridContainer">
 <a class="blog-card" href="article-apec-shenzhen-gifts-2026.html" data-category="building-blocks" aria-label="Ideias de presentes infantis para a APEC Shenzhen 2026">
-    <div class="blog-card-image"><img src="/product-images/journal/article-apec-shenzhen-gifts-2026-cover.webp" alt="Cena de inverno montada com brinquedos SUPUZZ, com árvores cobertas de neve, um boneco de neve, um pinguim, um urso-polar e uma foca" width="1600" height="1200" loading="lazy" decoding="async"></div>
+    <div class="blog-card-image"><img src="/product-images/journal/article-apec-shenzhen-gifts-2026-cover.webp" alt="Cena de inverno montada com brinquedos SUPUZZ, com árvores cobertas de neve, um boneco de neve, um pinguim, um urso-polar e uma foca" width="1600" height="900" loading="lazy" decoding="async"></div>
     <div class="blog-card-body">
         <div class="blog-card-meta">
             <p class="blog-published"><span class="blog-card-calendar" aria-hidden="true"></span><span class="blog-card-sr-only">Publicado em </span><time datetime="2026-11-18">18 de nov. de 2026</time></p>

diff --git a/es/blog.html b/es/blog.html
@@ -68,7 +68,7 @@
             </div>
             <div class="blog-grid" id="blogGridContainer">
 <a class="blog-card" href="article-apec-shenzhen-gifts-2026.html" data-category="building-blocks" aria-label="Ideas de regalos para niños para APEC Shenzhen 2026">
-    <div class="blog-card-image"><img src="/product-images/journal/article-apec-shenzhen-gifts-2026-cover.webp" alt="Escena invernal de juguete de construcción SUPUZZ con árboles nevados, un muñeco de nieve, un pingüino, un oso polar y una foca" width="1600" height="1200" loading="lazy" decoding="async"></div>
+    <div class="blog-card-image"><img src="/product-images/journal/article-apec-shenzhen-gifts-2026-cover.webp" alt="Escena invernal de juguete de construcción SUPUZZ con árboles nevados, un muñeco de nieve, un pingüino, un oso polar y una foca" width="1600" height="900" loading="lazy" decoding="async"></div>
     <div class="blog-card-body">
         <div class="blog-card-meta">
             <p class="blog-published"><span class="blog-card-calendar" aria-hidden="true"></span><span class="blog-card-sr-only">Publicado el </span><time datetime="2026-11-18">18 nov 2026</time></p>

diff --git a/ja/blog.html b/ja/blog.html
@@ -68,7 +68,7 @@
             </div>
             <div class="blog-grid" id="blogGridContainer">
 <a class="blog-card" href="article-apec-shenzhen-gifts-2026.html" data-category="building-blocks" aria-label="APEC Shenzhen 2026 子どもへのギフト提案">
-    <div class="blog-card-image"><img src="/product-images/journal/article-apec-shenzhen-gifts-2026-cover.webp" alt="雪をかぶった木、雪だるま、ペンギン、シロクマ、アザラシが並ぶ SUPUZZ 組み立て玩具の冬景色" width="1600" height="1200" loading="lazy" decoding="async"></div>
+    <div class="blog-card-image"><img src="/product-images/journal/article-apec-shenzhen-gifts-2026-cover.webp" alt="雪をかぶった木、雪だるま、ペンギン、シロクマ、アザラシが並ぶ SUPUZZ 組み立て玩具の冬景色" width="1600" height="900" loading="lazy" decoding="async"></div>
     <div class="blog-card-body">
         <div class="blog-card-meta">
             <p class="blog-published"><span class="blog-card-calendar" aria-hidden="true"></span><span class="blog-card-sr-only">公開日：</span><time datetime="2026-11-18">2026年11月18日</time></p>

diff --git a/de/blog.html b/de/blog.html
@@ -68,7 +68,7 @@
             </div>
             <div class="blog-grid" id="blogGridContainer">
 <a class="blog-card" href="article-apec-shenzhen-gifts-2026.html" data-category="building-blocks" aria-label="Geschenkideen für Kinder zur APEC Shenzhen 2026">
-    <div class="blog-card-image"><img src="/product-images/journal/article-apec-shenzhen-gifts-2026-cover.webp" alt="SUPUZZ Baustein-Winterszene mit schneebedeckten Bäumen, einem Schneemann, einem Pinguin, einem Eisbären und einem Seehund" width="1600" height="1200" loading="lazy" decoding="async"></div>
+    <div class="blog-card-image"><img src="/product-images/journal/article-apec-shenzhen-gifts-2026-cover.webp" alt="SUPUZZ Baustein-Winterszene mit schneebedeckten Bäumen, einem Schneemann, einem Pinguin, einem Eisbären und einem Seehund" width="1600" height="900" loading="lazy" decoding="async"></div>
     <div class="blog-card-body">
         <div class="blog-card-meta">
             <p class="blog-published"><span class="blog-card-calendar" aria-hidden="true"></span><span class="blog-card-sr-only">Veröffentlicht am </span><time datetime="2026-11-18">18. Nov. 2026</time></p>
